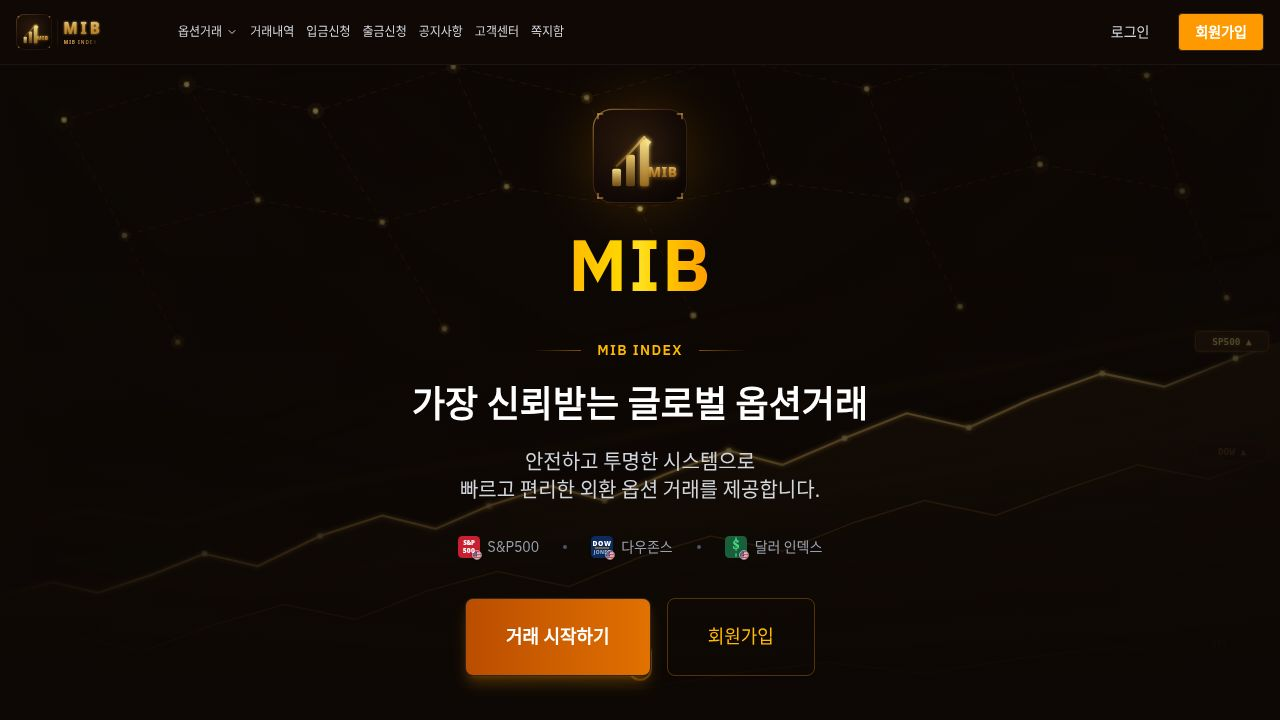
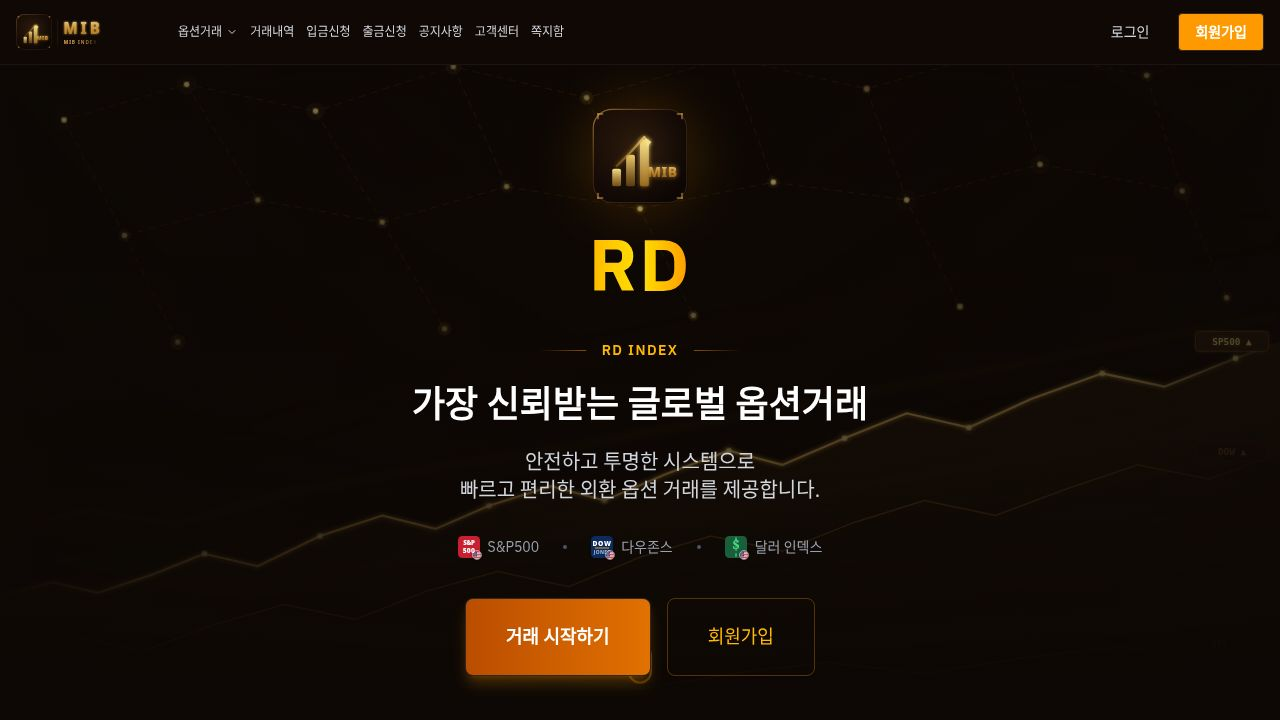
Update brand name to RD INDEX across the platform
Replaces all instances of "MIB" and related branding with "RD INDEX" throughout the client-side application, including the index.html, logo components, and various page components.

Replit-Commit-Author: Agent
Replit-Commit-Session-Id: 086cab4c-c6d6-440f-ab5c-39db1ebd02b9
Replit-Commit-Checkpoint-Type: full_checkpoint
Replit-Commit-Event-Id: 32f279e9-afd7-4c73-9ae0-a6f8a8edd690
Replit-Commit-Screenshot-Url: https://storage.googleapis.com/screenshot-production-us-central1/a36a5947-30c3-4add-8173-7cf0a4fe1a3b/086cab4c-c6d6-440f-ab5c-39db1ebd02b9/V8lfYJZ
Replit-Helium-Checkpoint-Created: true

Changed region(s): [[0.4375, 0.3361, 0.5625, 0.4278], [0.4688, 0.4583, 0.5312, 0.5194]]

diff --git a/client/index.html b/client/index.html
@@ -3,19 +3,19 @@
   <head>
     <meta charset="UTF-8" />
     <meta name="viewport" content="width=device-width, initial-scale=1.0, maximum-scale=1" />
-    <title>대한민국 대표 글로벌 투자 거래소 MIB 공식 홈페이지</title>
+    <title>대한민국 대표 글로벌 투자 거래소 RD INDEX 공식 홈페이지</title>
     <link rel="icon" type="image/svg+xml" href="/mib-icon.svg" />
     <link rel="icon" type="image/png" sizes="512x512" href="/mib-icon.png" />
     <link rel="apple-touch-icon" href="/mib-icon.png" />
-    <meta name="description" content="대한민국 대표 글로벌 투자 거래소 MIB INDEX 공식 홈페이지 - 안전하고 투명한 시스템으로 S&P500, 다우존스, 달러 실시간 투자 거래를 제공합니다." />
+    <meta name="description" content="대한민국 대표 글로벌 투자 거래소 RD INDEX 공식 홈페이지 - 안전하고 투명한 시스템으로 S&P500, 다우존스, 달러 실시간 투자 거래를 제공합니다." />
     <meta property="og:type" content="website" />
-    <meta property="og:title" content="대한민국 대표 글로벌 투자 거래소 MIB 공식 홈페이지" />
-    <meta property="og:description" content="대한민국 대표 글로벌 투자 거래소 MIB INDEX 공식 홈페이지 - 안전하고 투명한 시스템으로 S&P500, 다우존스, 달러 실시간 투자 거래를 제공합니다." />
+    <meta property="og:title" content="대한민국 대표 글로벌 투자 거래소 RD INDEX 공식 홈페이지" />
+    <meta property="og:description" content="대한민국 대표 글로벌 투자 거래소 RD INDEX 공식 홈페이지 - 안전하고 투명한 시스템으로 S&P500, 다우존스, 달러 실시간 투자 거래를 제공합니다." />
     <meta property="og:image" content="https://mib-trade.co.kr/opengraph.png" />
-    <meta property="og:site_name" content="MIB" />
+    <meta property="og:site_name" content="RD INDEX" />
     <meta name="twitter:card" content="summary_large_image" />
-    <meta name="twitter:title" content="대한민국 대표 글로벌 투자 거래소 MIB 공식 홈페이지" />
-    <meta name="twitter:description" content="대한민국 대표 글로벌 투자 거래소 MIB INDEX 공식 홈페이지 - 안전하고 투명한 시스템으로 S&P500, 다우존스, 달러 실시간 투자 거래를 제공합니다." />
+    <meta name="twitter:title" content="대한민국 대표 글로벌 투자 거래소 RD INDEX 공식 홈페이지" />
+    <meta name="twitter:description" content="대한민국 대표 글로벌 투자 거래소 RD INDEX 공식 홈페이지 - 안전하고 투명한 시스템으로 S&P500, 다우존스, 달러 실시간 투자 거래를 제공합니다." />
     <meta name="twitter:image" content="https://mib-trade.co.kr/opengraph.png" />
     <meta name="twitter:site" content="@replit" />
     <link rel="preconnect" href="https://fonts.googleapis.com">

diff --git a/client/src/pages/Landing.tsx b/client/src/pages/Landing.tsx
@@ -1170,14 +1170,14 @@ export default function Landing() {
               <LearnInvestLogo variant="icon" size={96} className="relative rounded-2xl" />
             </div>
             <h1 className="text-5xl md:text-7xl font-bold mb-2 tracking-wide">
-              <span className="bg-gradient-to-r from-amber-400 via-yellow-300 to-amber-500 bg-clip-text text-transparent">MIB</span>
+              <span className="bg-gradient-to-r from-amber-400 via-yellow-300 to-amber-500 bg-clip-text text-transparent">RD</span>
             </h1>
           </div>
 
           <div className="flex items-center justify-center gap-4 mb-6">
             <span className="h-px w-12 bg-gradient-to-r from-transparent to-amber-500/50" />
             <div className="flex items-center gap-2">
-              <span className="text-amber-400 text-sm font-semibold tracking-widest uppercase">MIB INDEX</span>
+              <span className="text-amber-400 text-sm font-semibold tracking-widest uppercase">RD INDEX</span>
             </div>
             <span className="h-px w-12 bg-gradient-to-l from-transparent to-amber-500/50" />
           </div>
@@ -1527,11 +1527,11 @@ export default function Landing() {
         <section className="py-20 px-4">
           <div className="max-w-4xl mx-auto text-center">
             <h2 className="text-3xl md:text-4xl font-bold mb-4" data-testid="text-cta-title">
-              MIB에 가입하고<br />지금 바로 시작해보세요
+              RD INDEX에 가입하고<br />지금 바로 시작해보세요
             </h2>
             <p className="text-gray-400 text-lg mb-10">
               당신의 첫 투자,<br />
-              믿을 수 있는 MIB에서 시작하세요!
+              믿을 수 있는 RD INDEX에서 시작하세요!
             </p>
             <div className="flex flex-col sm:flex-row gap-4 justify-center">
               <Button 
@@ -1563,7 +1563,7 @@ export default function Landing() {
             <div>
               <div className="flex items-center gap-3 mb-4">
                 <h3 className="text-xl font-bold text-amber-400">
-                  MIB
+                  RD INDEX
                 </h3>
               </div>
               <p className="text-gray-500 text-sm">
@@ -1632,7 +1632,7 @@ export default function Landing() {
           </div>
 
           <div className="border-t border-white/5 pt-6 text-center text-gray-600 text-sm space-y-2">
-            <p>© 2024 MIB INDEX. All rights reserved.</p>
+            <p>© 2024 RD INDEX. All rights reserved.</p>
           </div>
         </div>
       </footer>

diff --git a/client/src/pages/Admin.tsx b/client/src/pages/Admin.tsx
@@ -298,7 +298,7 @@ function AdminLogin() {
         <div className="text-center mb-8">
           <LearnInvestLogo variant="icon" size={64} className="rounded-xl mx-auto mb-4" />
           <h1 className="text-3xl font-bold text-white mb-2">
-            <span className="text-amber-400 font-bold">MIB</span>
+            <span className="text-amber-400 font-bold">RD INDEX</span>
             <span className="text-white ml-2">관리자</span>
           </h1>
           <p className="text-gray-400 text-sm">관리자 계정으로 로그인하세요</p>
@@ -2997,7 +2997,7 @@ export default function Admin() {
       <div className="lg:hidden flex items-center justify-between p-3 bg-card border-b border-border sticky top-0 z-50">
         <div className="flex items-center gap-2">
           <LearnInvestLogo variant="icon" size={28} className="rounded-lg" />
-          <span className="font-bold text-sm text-amber-400">MIB</span>
+          <span className="font-bold text-sm text-amber-400">RD INDEX</span>
           <span className="text-xs text-muted-foreground">관리자</span>
         </div>
         <Sheet open={mobileMenuOpen} onOpenChange={setMobileMenuOpen}>
@@ -3043,7 +3043,7 @@ export default function Admin() {
           <div className="flex items-center gap-2">
             <LearnInvestLogo variant="icon" size={32} className="rounded-lg" />
             <div>
-              <span className="font-bold text-lg text-amber-400">MIB</span>
+              <span className="font-bold text-lg text-amber-400">RD INDEX</span>
             </div>
           </div>
           <p className="text-xs text-muted-foreground mt-1">관리자 패널</p>

diff --git a/client/src/pages/AffiliateDashboard.tsx b/client/src/pages/AffiliateDashboard.tsx
@@ -157,7 +157,7 @@ function AffiliateLogin() {
       <div className="w-full max-w-sm bg-card border border-border rounded-xl p-8 space-y-6 shadow-lg">
         <div className="text-center">
           <h1 className="text-2xl font-bold">총판 로그인</h1>
-          <p className="text-sm text-muted-foreground mt-1">MIB 총판 관리 시스템</p>
+          <p className="text-sm text-muted-foreground mt-1">RD INDEX 총판 관리 시스템</p>
         </div>
         <form onSubmit={handleLogin} className="space-y-4">
           <div className="space-y-2">
@@ -420,7 +420,7 @@ export default function AffiliateDashboard() {
       <header className="border-b border-border bg-card sticky top-0 z-50">
         <div className="max-w-7xl mx-auto px-4 py-3 flex items-center justify-between">
           <div className="flex items-center gap-3">
-            <span className="text-lg font-bold">MIB 총판</span>
+            <span className="text-lg font-bold">RD INDEX 총판</span>
             <span className="text-sm text-muted-foreground">{auth.displayName}</span>
           </div>
           <button

diff --git a/client/src/components/LearnInvestLogo.tsx b/client/src/components/LearnInvestLogo.tsx
@@ -99,7 +99,7 @@ export function LearnInvestLogo({
           textAnchor="middle"
           filter="url(#mi-itextglow)"
         >
-          MIB
+          RD
         </text>
 
         <line x1="8" y1="66" x2="68" y2="66" stroke="url(#mi-igold2)" strokeWidth="0.6" strokeLinecap="round" opacity="0.4" />
@@ -226,7 +226,7 @@ export function LearnInvestLogo({
         textAnchor="middle"
         filter="url(#mi-textglow)"
       >
-        MIB
+        RD
       </text>
 
       <line x1="8" y1="66" x2="68" y2="66" stroke="url(#mi-gold2)" strokeWidth="0.6" strokeLinecap="round" opacity="0.4" />
@@ -254,7 +254,7 @@ export function LearnInvestLogo({
         fill="url(#mi-textmib)"
         filter="url(#mi-textglow)"
       >
-        MIB
+        RD
       </text>
 
       <line x1="100" y1="50" x2="292" y2="50" stroke="url(#mi-divline)" strokeWidth="0.7" />
@@ -269,7 +269,7 @@ export function LearnInvestLogo({
         fill="url(#mi-textsub)"
         filter="url(#mi-subtextglow)"
       >
-        MIB INDEX
+        RD INDEX
       </text>
     </svg>
   );
